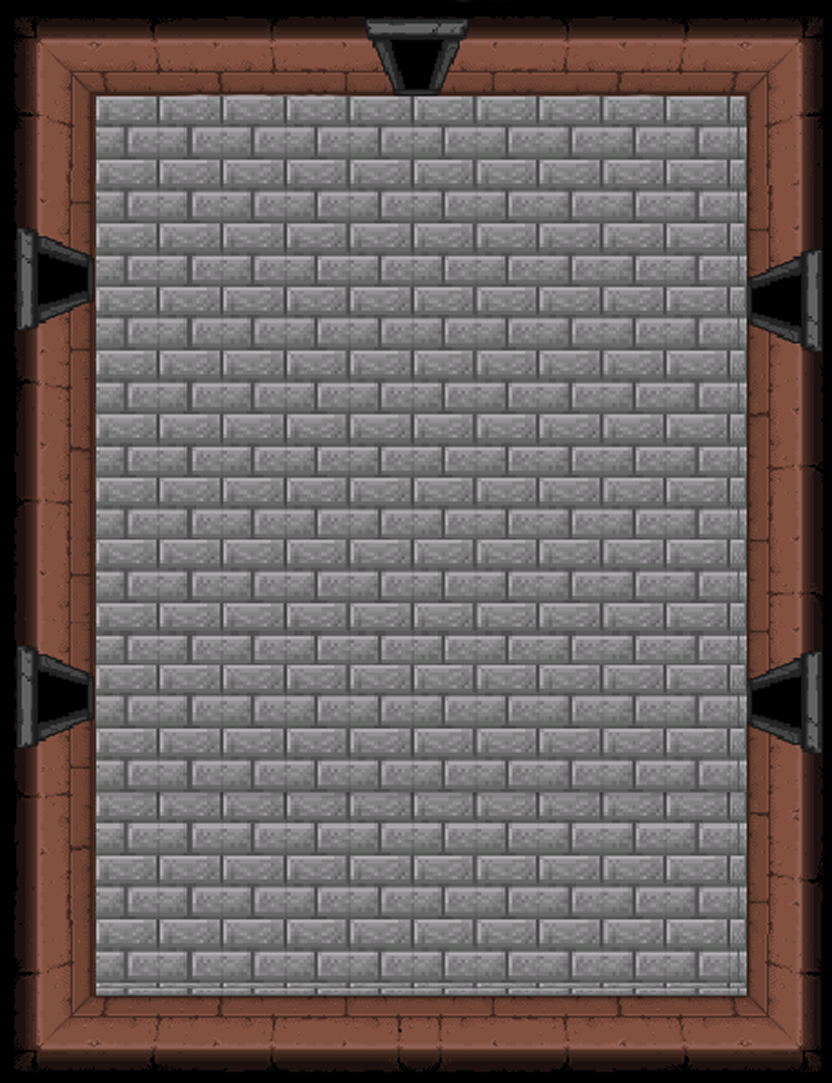
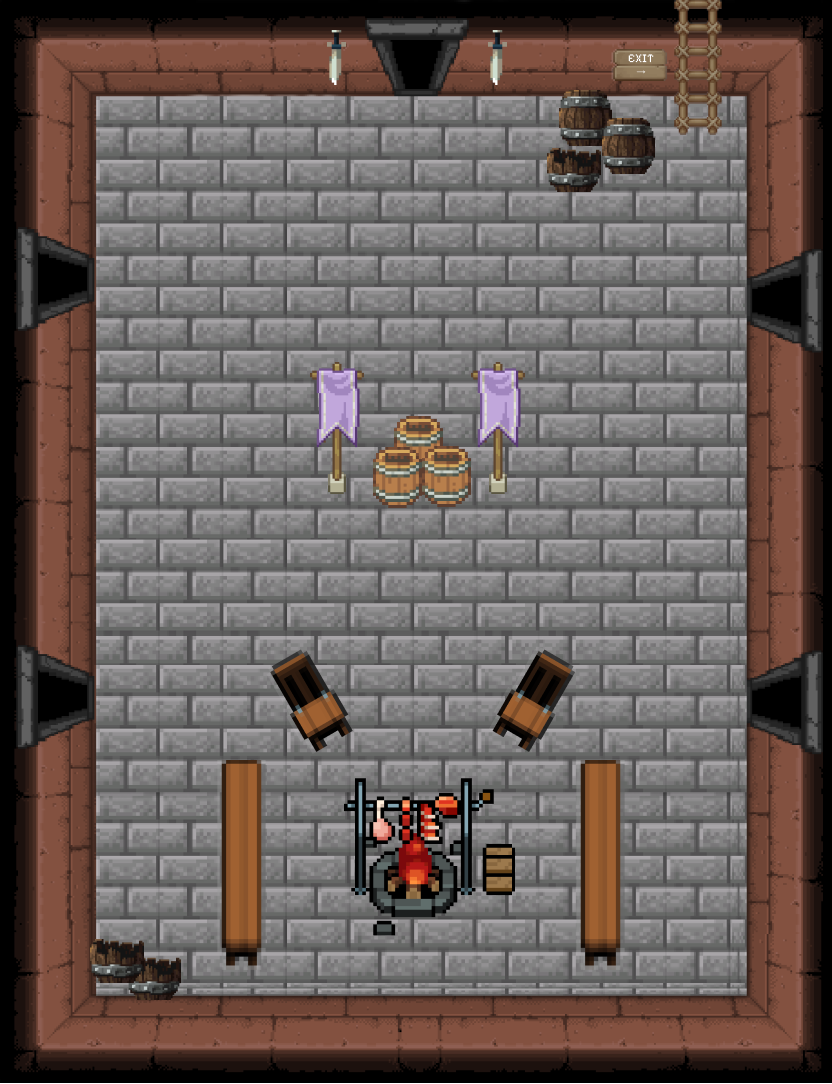
2. Nalozenie tekstur oraz wgranie funkcjonalnosci kolizji na roznych obiektach

diff --git a/Klasy/Game.py b/Klasy/Game.py
@@ -13,35 +13,48 @@ class Game:
         self.camera_y = 0
         self.objects = []
         self.npcs = [NPC(800, 600)]
-        self.create_objects()
         self.chat_mode = False
         self.chat_history = []
         self.chat_input = ""
-        self.quit_button = pygame.Rect(SCREEN_WIDTH - 210, SCREEN_HEIGHT - 70, 200,
-                                       50)
+        self.quit_button = pygame.Rect(SCREEN_WIDTH - 210, SCREEN_HEIGHT - 70, 200,50)
         self.ui = UserInterface(self.player)
         original_bg = pygame.image.load("assets/Glowna_mapa.png").convert()
         original_width, original_height = original_bg.get_size()
-        scaled_bg = pygame.transform.scale(original_bg, (SCREEN_WIDTH, original_height))
+        scaled_bg = pygame.transform.scale(original_bg, (original_width*2, original_height*2))
         self.map_background = scaled_bg
 
 
-    def update(self, dx, dy, delta_time):
-        """Aktualizacja gry (ruch gracza i kolizje)."""
-        self.player.move(dx, dy, delta_time, self.objects)
+        collision_map = pygame.image.load("assets/Glowna_mapa_kolizje.png").convert()
+        self.collision_map = pygame.transform.scale(collision_map, (original_width*2, original_height*2))
+        
+        # Nie potrzebujesz już create_objects() - kolizje są w mapie
+        self.objects = []
 
-        # Oblicz kamerę, tak by gracz był na środku ekranu
+
+    def update(self, dx, dy, delta_time):
+        self.player.move(dx, dy, delta_time, self.objects, self.check_collision_on_map)
+
+        
         self.camera_x = self.player.rect.centerx - SCREEN_WIDTH // 2
         self.camera_y = self.player.rect.centery - SCREEN_HEIGHT // 2
 
-        # Ogranicz kamerę do granic mapy (jeśli nie chcesz pokazywać "czarnego")
+        
         bg_width, bg_height = self.map_background.get_size()
         self.camera_x = max(0, min(self.camera_x, bg_width - SCREEN_WIDTH))
         self.camera_y = max(0, min(self.camera_y, bg_height - SCREEN_HEIGHT))
 
-    def create_objects(self):
-        self.objects.append(pygame.Rect(300, 300, 50, 50))
-        self.objects.append(pygame.Rect(600, 400, 60, 60))
+    def check_collision_on_map(self, x, y):
+        
+        if x < 0 or y < 0 or x >= self.collision_map.get_width() or y >= self.collision_map.get_height():
+            return True  
+        
+        
+        try:
+            pixel_color = self.collision_map.get_at((int(x), int(y)))
+           
+            return pixel_color[0] < 128  
+        except:
+            return True 
 
     def handle_input(self):
         keys = pygame.key.get_pressed()
@@ -65,7 +78,7 @@ class Game:
     def run(self):
         while self.running:
             while self.running:
-                delta_time = self.clock.tick(60) / 1000  # Czas między klatkami w sekundach
+                delta_time = self.clock.tick(60) / 1000  
                 self.handle_events()
                 dx, dy = self.handle_input()
                 self.update(dx, dy, delta_time)

diff --git a/Klasy/Player.py b/Klasy/Player.py
@@ -29,18 +29,44 @@ class Player:
         with open("DataBase/user_data.json", "w") as f:
             json.dump(data, f, indent=4)
 
-    def move(self, dx, dy, delta_time, objects):
+    def move(self, dx, dy, delta_time, objects, collision_map_check=None):
         length = math.sqrt(dx ** 2 + dy ** 2)
         if length != 0:
             dx = (dx / length) * self.player_speed * delta_time * 100
             dy = (dy / length) * self.player_speed * delta_time * 100
 
-        self.rect.x += dx
-        if self.check_collision(objects):
-            self.rect.x -= dx
-        self.rect.y += dy
-        if self.check_collision(objects):
-            self.rect.y -= dy
+        # Sprawdź kolizję X
+        new_x = self.rect.x + dx
+        if collision_map_check:
+            # Sprawdź kilka punktów gracza (rogi prostokąta)
+            collision_x = (
+                collision_map_check(new_x, self.rect.y) or
+                collision_map_check(new_x + self.player_size, self.rect.y) or
+                collision_map_check(new_x, self.rect.y + self.player_size) or
+                collision_map_check(new_x + self.player_size, self.rect.y + self.player_size)
+            )
+            if not collision_x:
+                self.rect.x = new_x
+        else:
+            self.rect.x = new_x
+            if self.check_collision(objects):
+                self.rect.x -= dx
+
+        # Sprawdź kolizję Y
+        new_y = self.rect.y + dy
+        if collision_map_check:
+            collision_y = (
+                collision_map_check(self.rect.x, new_y) or
+                collision_map_check(self.rect.x + self.player_size, new_y) or
+                collision_map_check(self.rect.x, new_y + self.player_size) or
+                collision_map_check(self.rect.x + self.player_size, new_y + self.player_size)
+            )
+            if not collision_y:
+                self.rect.y = new_y
+        else:
+            self.rect.y = new_y
+            if self.check_collision(objects):
+                self.rect.y -= dy
 
     def check_collision(self, objects):
         for obj in objects:

diff --git a/Klasy/Room.py b/Klasy/Room.py
@@ -1,0 +1,21 @@
+import pygame
+
+from Klasy.config import BLUE, SCREEN_HEIGHT, SCREEN_WIDTH
+
+class Room:
+    def __init__(self, background_path, collision_path, npcs=None, objects=None):
+        bg = pygame.image.load(background_path).convert()
+        col = pygame.image.load(collision_path).convert()
+
+        self.map_background = pygame.transform.scale(bg, (bg.get_width() * 2, bg.get_height() * 2))
+        self.collision_map = pygame.transform.scale(col, (col.get_width() * 2, col.get_height() * 2))
+
+        self.npcs = npcs or []
+        self.objects = objects or []
+
+    def draw(self, surface, camera_x, camera_y):
+        surface.blit(self.map_background, (0, 0), pygame.Rect(camera_x, camera_y, SCREEN_WIDTH, SCREEN_HEIGHT))
+        for obj in self.objects:
+            pygame.draw.rect(surface, BLUE, pygame.Rect(obj.x - camera_x, obj.y - camera_y, obj.width, obj.height))
+        for npc in self.npcs:
+            npc.draw(camera_x, camera_y)

diff --git a/Klasy/MainRoom.py b/Klasy/MainRoom.py
@@ -1,0 +1,12 @@
+from Room import Room
+from NPC import NPC
+
+class MainRoom(Room):
+    def __init__(self):
+        super().__init__(
+            background_path="assets/Glowna_mapa.png",
+            collision_path="assets/Glowna_mapa_kolizje.png",
+            npcs=[NPC(800, 600)],
+            objects=[]
+        )
+
